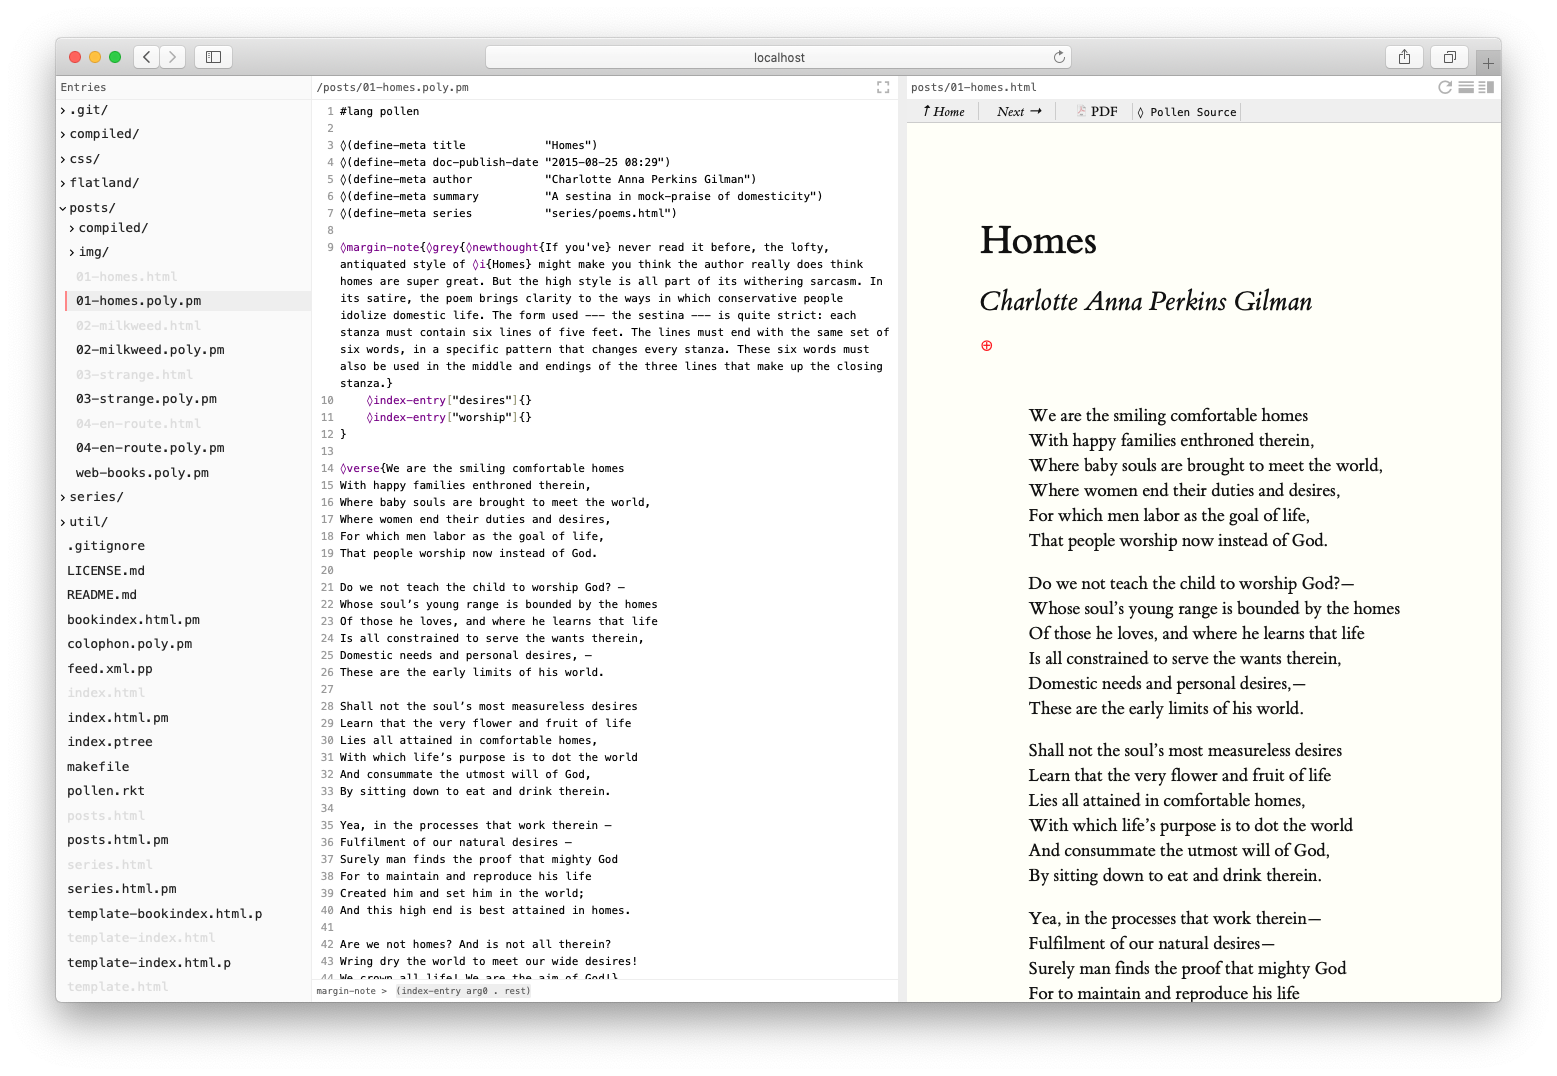
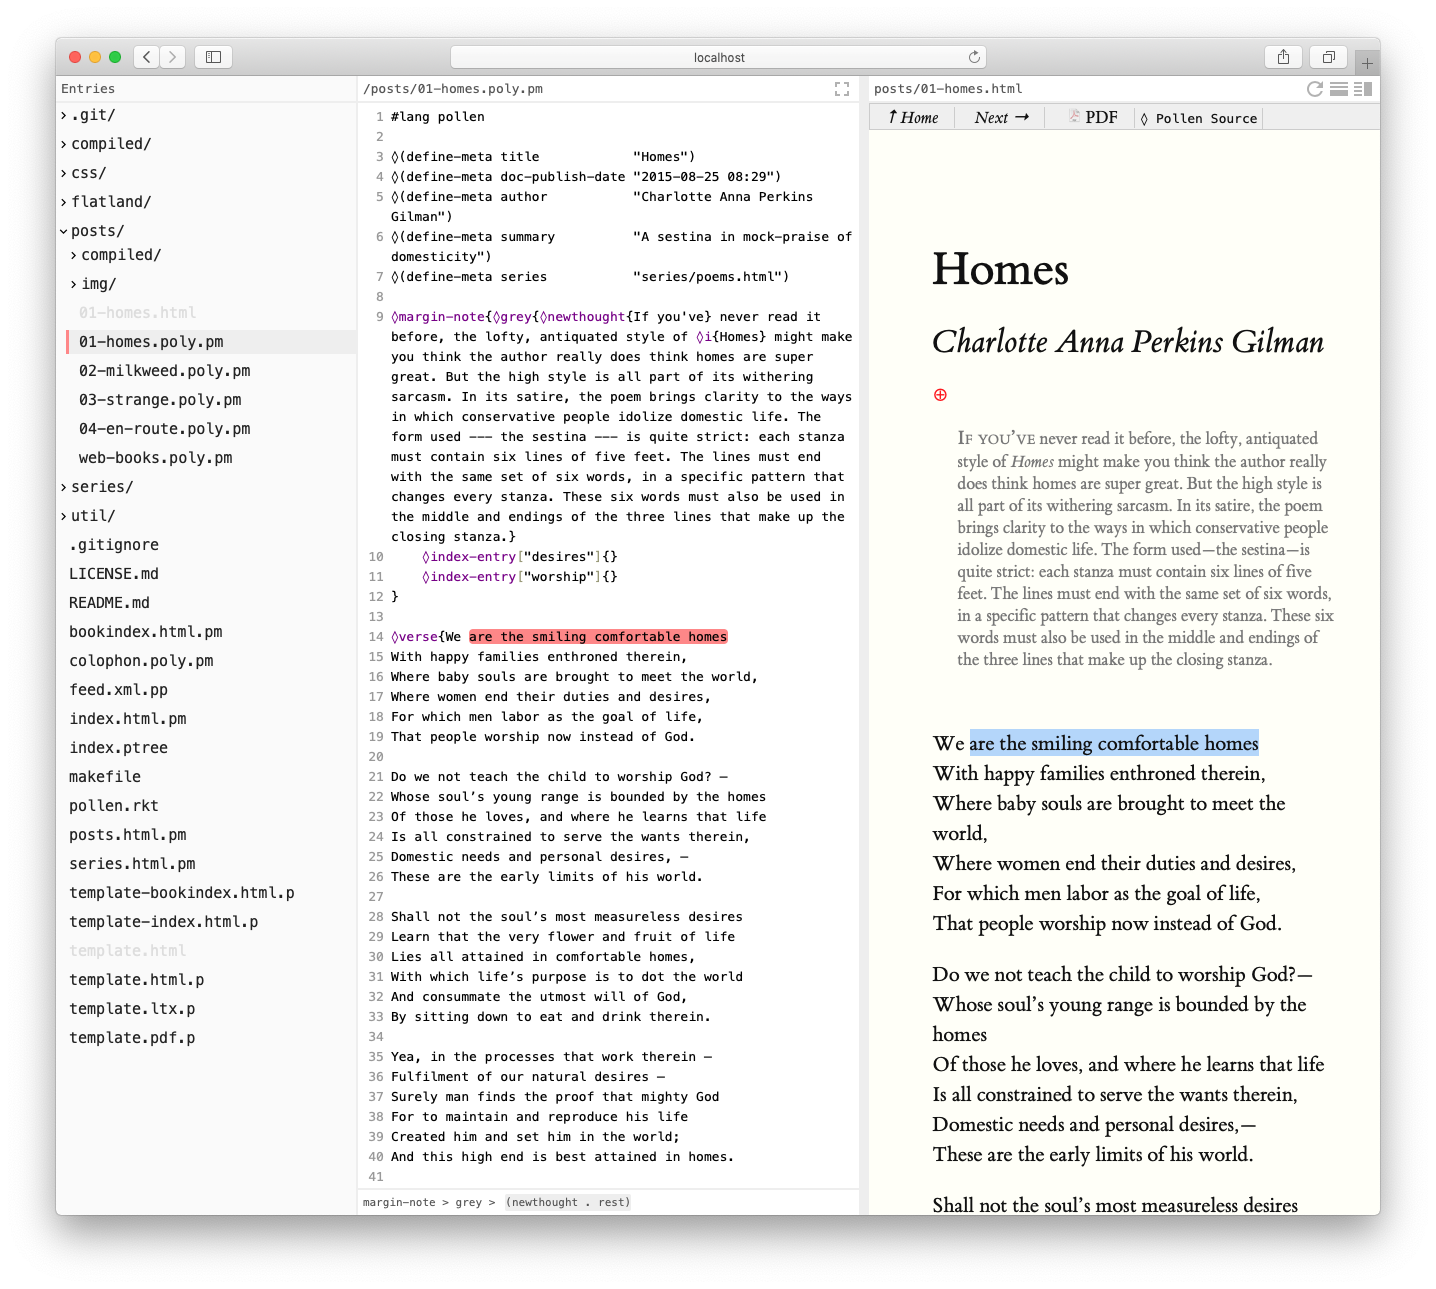
update README

Changed region(s): [[0.0306, 0.0307, 0.9805, 0.9507], [0.6128, 0.184, 0.9192, 0.3067]]

diff --git a/README.md b/README.md
@@ -13,22 +13,22 @@ suggestions are welcome.
 
 ## Documentation
 
-See [pollen-rock](https://docs.racket-lang.org/pollen-rock/) for documentation of both server and editor.
+See [pollen-rock](https://docs.racket-lang.org/pollen-rock/) for documentation.
 
 
 # ChangeLog
 ## 0.7.0
 Features
- - Server provides mtime on read and write a file for multi-clients detection
+ - Server provides mtime on read and write of a file to detect multi-clients
  - A new design and rewrite of the front end editor. The editor provides a lot of exciting features
    - Side bar for project navigation
    - Multi-client detection to avoid silent overwrite
-   - Cursor position tracking to provide tag path and tag signatures
+   - Cursor position tracking in the editor to provide tag path and tag signatures
    - Enhanced editor to work better with pollen command boundries; inserting and deleting braces becomes smart
    - Editor focus mode to remove UI cluster
-   - Vertical and horizontal preview split
-   - Syntax highlight for almost all languages
- - the editor has dropped the functionality of create/rename/delete project files
+   - Resizable vertical and horizontal preview split
+   - Syntax highlight for almost all languages (auto detected by file extentions)
+ - The editor can highlight and jump to the corresponding position when a piece of searchable text in preview is selected
 
 ## 0.6.0
 Features
